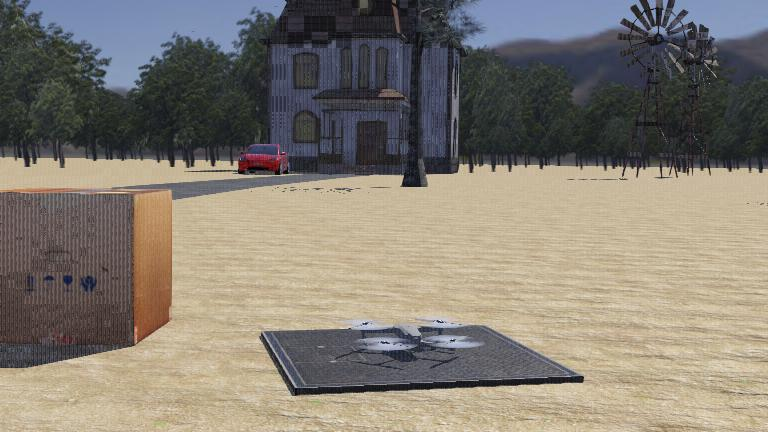
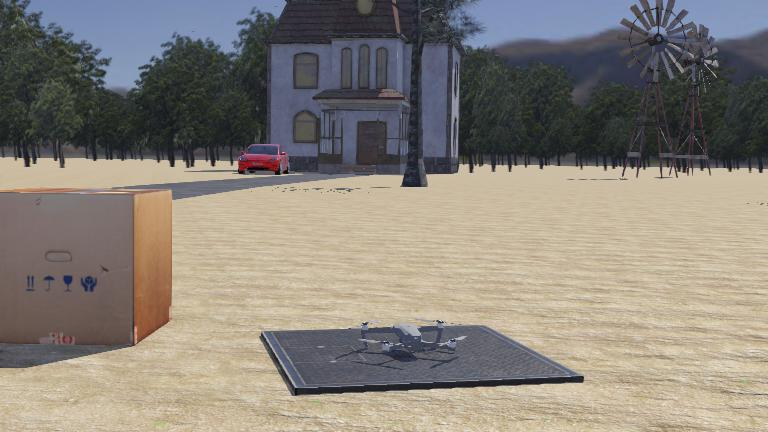
Add python controller

diff --git a/mavic/controllers/mavicpy/mavicpy.py b/mavic/controllers/mavicpy/mavicpy.py
@@ -1,32 +1,132 @@
 """mavicpy controller."""
 
-# You may need to import some classes of the controller module. Ex:
-#  from controller import Robot, Motor, DistanceSensor
 from controller import Robot
+import sys
 
-# create the Robot instance.
-robot = Robot()
+try:
+    import numpy as np
+except ImportError:
+    sys.exit("Warning: 'numpy' module not found.")
 
-# get the time step of the current world.
-timestep = int(robot.getBasicTimeStep())
 
-# You should insert a getDevice-like function in order to get the
-# instance of a device of the robot. Something like:
-#  motor = robot.getDevice('motorname')
-#  ds = robot.getDevice('dsname')
-#  ds.enable(timestep)
+def clamp(value, value_min, value_max):
+    return min(max(value, value_min), value_max)
 
-# Main loop:
-# - perform simulation steps until Webots is stopping the controller
-while robot.step(timestep) != -1:
-    # Read the sensors:
-    # Enter here functions to read sensor data, like:
-    #  val = ds.getValue()
 
-    # Process sensor data here.
+class Mavic(Robot):
+    K_VERTICAL_THRUST = 68.5
+    K_VERTICAL_OFFSET = 0.6
+    K_VERTICAL_P = 3.0
+    K_ROLL_P = 50.0
+    K_PITCH_P = 30.0
 
-    # Enter here functions to send actuator commands, like:
-    #  motor.setPosition(10.0)
-    pass
+    def __init__(self):
+        super().__init__()
 
-# Enter here exit cleanup code.
+        self.time_step = int(self.getBasicTimeStep())
+
+        # Get and enable devices.
+        self.camera = self.getDevice("camera")
+        self.camera.enable(self.time_step)
+        self.front_left_led = self.getDevice("front left led")
+        self.front_right_led = self.getDevice("front right led")
+        self.imu = self.getDevice("inertial unit")
+        self.imu.enable(self.time_step)
+        self.gps = self.getDevice("gps")
+        self.gps.enable(self.time_step)
+        self.compass = self.getDevice("compass")
+        self.compass.enable(self.time_step)
+        self.gyro = self.getDevice("gyro")
+        self.gyro.enable(self.time_step)
+        self.keyboard = self.getKeyboard()
+        self.keyboard.enable(self.time_step)
+        self.camera_roll_motor = self.getDevice("camera roll")
+        self.camera_pitch_motor = self.getDevice("camera pitch")
+
+        self.front_left_motor = self.getDevice("front left propeller")
+        self.front_right_motor = self.getDevice("front right propeller")
+        self.rear_left_motor = self.getDevice("rear left propeller")
+        self.rear_right_motor = self.getDevice("rear right propeller")
+        motors = [
+            self.front_left_motor,
+            self.front_right_motor,
+            self.rear_left_motor,
+            self.rear_right_motor,
+        ]
+        for motor in motors:
+            motor.setPosition(float("inf"))
+            motor.setVelocity(1.0)
+
+        self.target_altitude = 1.0
+
+    def run(self):
+        while self.step(self.time_step) != -1:
+            time = self.getTime()
+
+            roll, pitch, yaw = self.imu.getRollPitchYaw()
+            altitude = self.gps.getValues()[2]
+            roll_velocity, pitch_velocity, _ = self.gyro.getValues()
+
+            led_state = int(time) % 2
+            self.front_left_led.set(led_state)
+            self.front_right_led.set(1 - led_state)
+
+            # Stabilize the camera using gyro feedback.
+            self.camera_roll_motor.setPosition(-0.115 * roll_velocity)
+            self.camera_pitch_motor.setPosition(-0.1 * pitch_velocity)
+
+            roll_disturbance = 0.0
+            pitch_disturbance = 0.0
+            yaw_disturbance = 0.0
+
+            key = self.keyboard.getKey()
+            while key > 0:
+                if key == self.keyboard.UP:
+                    pitch_disturbance = -2.0
+                elif key == self.keyboard.DOWN:
+                    pitch_disturbance = 2.0
+                elif key == self.keyboard.RIGHT:
+                    yaw_disturbance = -1.3
+                elif key == self.keyboard.LEFT:
+                    yaw_disturbance = 1.3
+                elif key == (self.keyboard.SHIFT + self.keyboard.RIGHT):
+                    roll_disturbance = -1.0
+                elif key == (self.keyboard.SHIFT + self.keyboard.LEFT):
+                    roll_disturbance = 1.0
+                elif key == (self.keyboard.SHIFT + self.keyboard.UP):
+                    self.target_altitude += 0.05
+                    print(f"target altitude: {self.target_altitude:.2f} [m]")
+                elif key == (self.keyboard.SHIFT + self.keyboard.DOWN):
+                    self.target_altitude -= 0.05
+                    print(f"target altitude: {self.target_altitude:.2f} [m]")
+                key = self.keyboard.getKey()
+
+            roll_input = self.K_ROLL_P * clamp(roll, -1.0, 1.0) + roll_velocity + roll_disturbance
+            pitch_input = self.K_PITCH_P * clamp(pitch, -1.0, 1.0) + pitch_velocity + pitch_disturbance
+            yaw_input = yaw_disturbance
+            clamped_difference_altitude = clamp(
+                self.target_altitude - altitude + self.K_VERTICAL_OFFSET, -1.0, 1.0
+            )
+            vertical_input = self.K_VERTICAL_P * pow(clamped_difference_altitude, 3.0)
+
+            front_left_motor_input = (
+                self.K_VERTICAL_THRUST + vertical_input - roll_input + pitch_input - yaw_input
+            )
+            front_right_motor_input = (
+                self.K_VERTICAL_THRUST + vertical_input + roll_input + pitch_input + yaw_input
+            )
+            rear_left_motor_input = (
+                self.K_VERTICAL_THRUST + vertical_input - roll_input - pitch_input + yaw_input
+            )
+            rear_right_motor_input = (
+                self.K_VERTICAL_THRUST + vertical_input + roll_input - pitch_input - yaw_input
+            )
+
+            self.front_left_motor.setVelocity(front_left_motor_input)
+            self.front_right_motor.setVelocity(-front_right_motor_input)
+            self.rear_left_motor.setVelocity(-rear_left_motor_input)
+            self.rear_right_motor.setVelocity(rear_right_motor_input)
+
+
+robot = Mavic()
+robot.run()